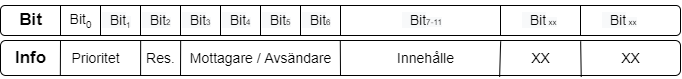
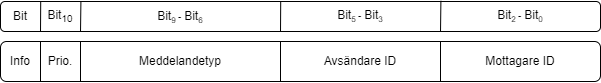
update (See changes, add more where needed)

diff --git a/Projektrapport/main.tex b/Projektrapport/main.tex
@@ -13,10 +13,12 @@
 
 \begin{center}
         \title{\textbf{Larmsystem med MD407}\\ 
+         \hspace{10cm}
+         \hrule
         \hspace{10cm}
         \small Implementation av rörelsesensor, avståndsmätare och simulerad dörrenhet på MD407 mikrodator}
     
-        \author{Alamin Alreda, Sebastian Danckwardt, Isac Holm, Zaid Haj Ibrahim, Edvin Svahn}
+        \author{Alamin Alreda, Edvin Svahn, Isac Holm, Sebastian Danckwardt, Zaid Haj Ibrahim}
 
         \date{Oktober 2022}
 
@@ -64,10 +66,10 @@ Ytterligare en periferienhet skall simulera ett simulerat defekt larm som dess s
 När den centrala styrenheten startar skall en förfråga skickas till de anslutna periferienheterna. Därpå svarar varje periferienhet med dess typ och konfiguration för att sedan tilldelas ett unikt ID. Dörrenheten skall inledningsvis larma lokalt med en röd lysdiod, om specifika krav nås meddelas den centrala styrenheten. Dörrlarmet larmar till centralenheten efter en bestämd tid. Avaståndsmätare ska upptäcka ifall något passerar framför den på ett visst avstånd medans vibrationssensor ska detektera rörelse. Det skall även vara möjligt att låsa in eller låsa upp dörren samt inaktivera dörrlarmet genom att mata in en fyrsiffrig kod på en fyrasiffrig tangentsbord.
 
 
-\subsection{Arbetsmetod}
+\subsection{Arbetsmetod LÄGG TILL MER }
 I arbetsmetod beskrivs hur .
 
-\subsubsection{Planering}
+
 
 \subsubsection{Process}
 När gruppen började skriva kod för projektet delades den upp i två undergrupper som var och en arbetade självständigt med separata delar av projektet. 
@@ -83,21 +85,26 @@ Detta hjälpte oss att hålla projektet på rätt spår och se till att vi gjord
 
 \newpage
 \section{Teknisk beskrivning}
-I det här kapitlet redogörs projektets tekniska bedrifter. 
-I den tekniska bakgrunden beskrivs varför systemet är uppbyggt av de delar som det är.
-Därefter ger Systemöversikten en övergripande förståelse för hur systemet är uppbyggt och sist men inte minst förklarar Delsystem hur delarna är uppbyggda.
+I det här kapitlet redogörs en teknisk beskrivning av systemet. 
+I den tekniska bakgrunden beskrivs vad samtliga komponenter har för syfte.
+Därefter ger Systemöversikten en övergripande förståelse för hur systemet är uppbyggt.Delsystem förklarar hur samtliga delarna är uppbyggda.
 
-
-\subsection{Teknisk bakgrund}\\
+\subsection{Teknisk bakgrund INTE KLAR }\\
 %Vad är utgångspunkten för konstruktionsarbetet?
+I dagens samhälle har digitalisering en stor del av världens revolution och utveckling, en revolution att jämföra med industliersering i 1900. Begreppet digitalisering innebär att,med hjälp av teknik, förbättra människors livstill. Detta sker genom att omvandla beffintliga verksamhet till nya som är mer effiktiva och innovativa, exmpelvis ett larmsystem. 
 
-MD407-mikrokontroller är den centrala komponenten i konstruktionsarbetet. 
-Detta är en laborationsdator med stabil hårdvara som har utvecklats i utbildningssyfte, på datorn finns det pinnar för ström, jord och GPIO som kan kopplas till externa periferienher.
+\subsubsection{Centralenhet}
+Systemet bygger på en MD407-mikrokontroller, vilket är den centrala komponenten i konstruktionsarbetet. 
+Dessutom är den en laborationsdator som har utvecklats i utbildningssyfte. (Beskrivning på MD KORT)
+
+\subsubsection{Sensorer}
 Vibrationssensor (SW-18010P), avståndsmätare (HC-SR04) samt strömbrytare kan anslutas till mikrokontrollern via en av GPIO-portarna.\\
-
 Vibrationssensorn går att köpa för ca 7 kr och en avståndsmätare för ca 50 kr.
 Lägg till några kablar och en bräda att koppla det på så blir det kanske runt ca 150 kr. 
-Det finns ingen prispunkt på MD407-korten på internet men liknande kort finns för överkant 150 kr.\\
+Det finns ingen prispunkt på MD407-korten på internet men liknande kort finns för överkant 150 kr.
+
+\subsubsection{Dörrenhet}
+(Kort inledande beskrvning på vad dörr enheterna har för roll och hur de är uppbyggda)
 
 Med tre kort och lägsta möjliga sensorer kostar det ca 750 kr vilket är en engångssumma till skillnad från ett hemlarm på prenumeration kan kosta ca 250 kr i månaden \cite{Offerta}.
 Det betyder att du har tjänat in kostnaden efter ca 3 månader beroende på hur många komponenter du köper.\\
@@ -115,32 +122,35 @@ Eftersom larmsystemet består av flera mikrokontrollers måste kommunikation ske
     \label{fig:drawing}
 \end{figure}
 
-Systemet består i stort av tre delar - en centralenhet och två periferienheter. 
-Utöver dessa enheterna innehåller systemet övriga komponenter som bidrar till funktionalitet av systemet i sin helhet såsom tangentbord och sju-segment. Ett md407-kort används som en ARM-processor för att koppla ihop olika instrument beroende på deras funktion och uppgifter (figure 1).
-Kommunikation mellan samtliga md-kort sker via en CAN-buss, medan kommunikation mellan centralenheten och pc sker över USART. \\
-
-Periferienhet 1 skall vara ansluten till en kopplingsplatta, på plattan skall det finnas lampor och en dörr-strömbrytare. 
+Systemet består i stort av tre delar, en centralenhet och två periferienheter, en dörrenhet och sensorenhet. 
+Utöver dessa enheterna innehåller systemet övriga komponenter som bidrar till funktionalitet av systemet i sin helhet såsom tangentbord och 7-segmentdisplay. Ett MD407-kort används som en centralenhet för att koppla ihop olika komponenter beroende på deras funktion och uppgifter (figure 1).
+Kommunikation mellan samtliga md-kort sker via en CAN-buss, medan kommunikation mellan centralenheten och PC sker över USART. \\
+\\
+Dörrenhet skall vara ansluten till en kopplingsplatta, på plattan skall det finnas lampor och en dörr-strömbrytare som läser av dörrenstillsånd.
 Lamporna kommer lysa rött efter att dörren har varit öppen en viss tid eller grönt om inget larm har gått. 
-Dörr-strömbrytarna kommer att simulera dörröppning eller dörrstängning. \\
-
-Periferienhet 2 skall vara kopplad till en avståndsmätare (HC-SR04) och en vibrationssensor (SW-18010P). 
+Dörr-strömbrytarna kommer att simulera dörröppning eller dörrstängning. 
+\\
+Sensorenhet skall vara kopplades till en avståndsmätare (HC-SR04) och en vibrationssensor (SW-18010P). 
 Avståndmätaren kommer att skicka en signal om avståndet har ändrats. 
 På samma sätt kommer vibrationssensorn skicka en signal om den har känt av några vibrationer. \\
 
-// CANBUSS = 1 /= 2 
 \begin{figure}[h]
     \centering
     \includegraphics[scale=0.5]{Projektrapport/protokoll.png}
+    \caption {Visuell framställning av Kommunikationsprotokoll}
+    \label{fig:drawing}
 \end{figure}
+
+
 \subsection{Delsystem}
 %gör beskrivning
-Här beskrivs de olika delsystemen.
+Här beskrivs vad de olika delsystemen har för tekniska funktioner samt arbetsroller under utförandetr av systemet. 
+
 \subsubsection{Centralenhet}
 Centralenheten kommunicerar ständigt med dörrenheten och sensorenheten över en CAN-buss, denna kommunikation kommer att omfatta ACK-, larm-, och konfigurationsmeddelanden. 
 Dessutom skall centralenheten hantera all kommunikation mellan användaren och systemet genom USART. För att användaren skall få tillgång till systemet skall hen skriva in rätt lösenord. 
 Därefter skall användaren kunna, för varje dörr, slå på eller av det centrala larmet, ändra tröskelvärdet, låsa eller låsa upp dörren. 
 Utöver det skall användaren också kunna ändra tröskelvärdet för avståndsmätaren.
-
 
 
 \subsubsection{Dörrenhet}
@@ -159,7 +169,8 @@ Avståndet kommer att mättas kontinuerligt i intervaller av 60 millisekunder, o
 \\
 Sedan kommer även vibrationssensor att känna av vibrationer, ifall den känner av någon vibration kommer den att den skicka till centralenheten för att slå på det globala larmet.
 
-
+\subsubsection{Systemprotkoll}\\
+Kommunikationsprotkollet är en 10-bit lång protokoll, vilket är uppdelat till fyra segment (figure 2). Högsta bit är tilldealde till bit-10, och lägsta bit är bit-0. Ett ställning av bit-10 innebär att detta meddlenade får högsta prioritet och därmed viktigt att utföras först i fall det skulle bygga up datakö i CAN-bussen. Noll-ställning av samma bit innebär då motsatsen, vilket är att meddalndet får lägsta prioritet och kan därmed vänta med utförning. Bit 9 till och med bit 6 är reservade till meddlandetypen som innehåller blandannat om meddelandet är ett begär att larma på eller av, eller bland annat information som föras mellan olika enheterna i regelbundet. Varje gång ett meddelande skickas, kommer bit-5 till och med bit-3 innehålla avsändaren ID, och bit2 till och med bit-0 ansvariga för mottagarens ID. 
 
 \section{Resultat}
 Detta avsnitt redovisar resultatet av genomförd verifiering av systemet och dess olika delar
